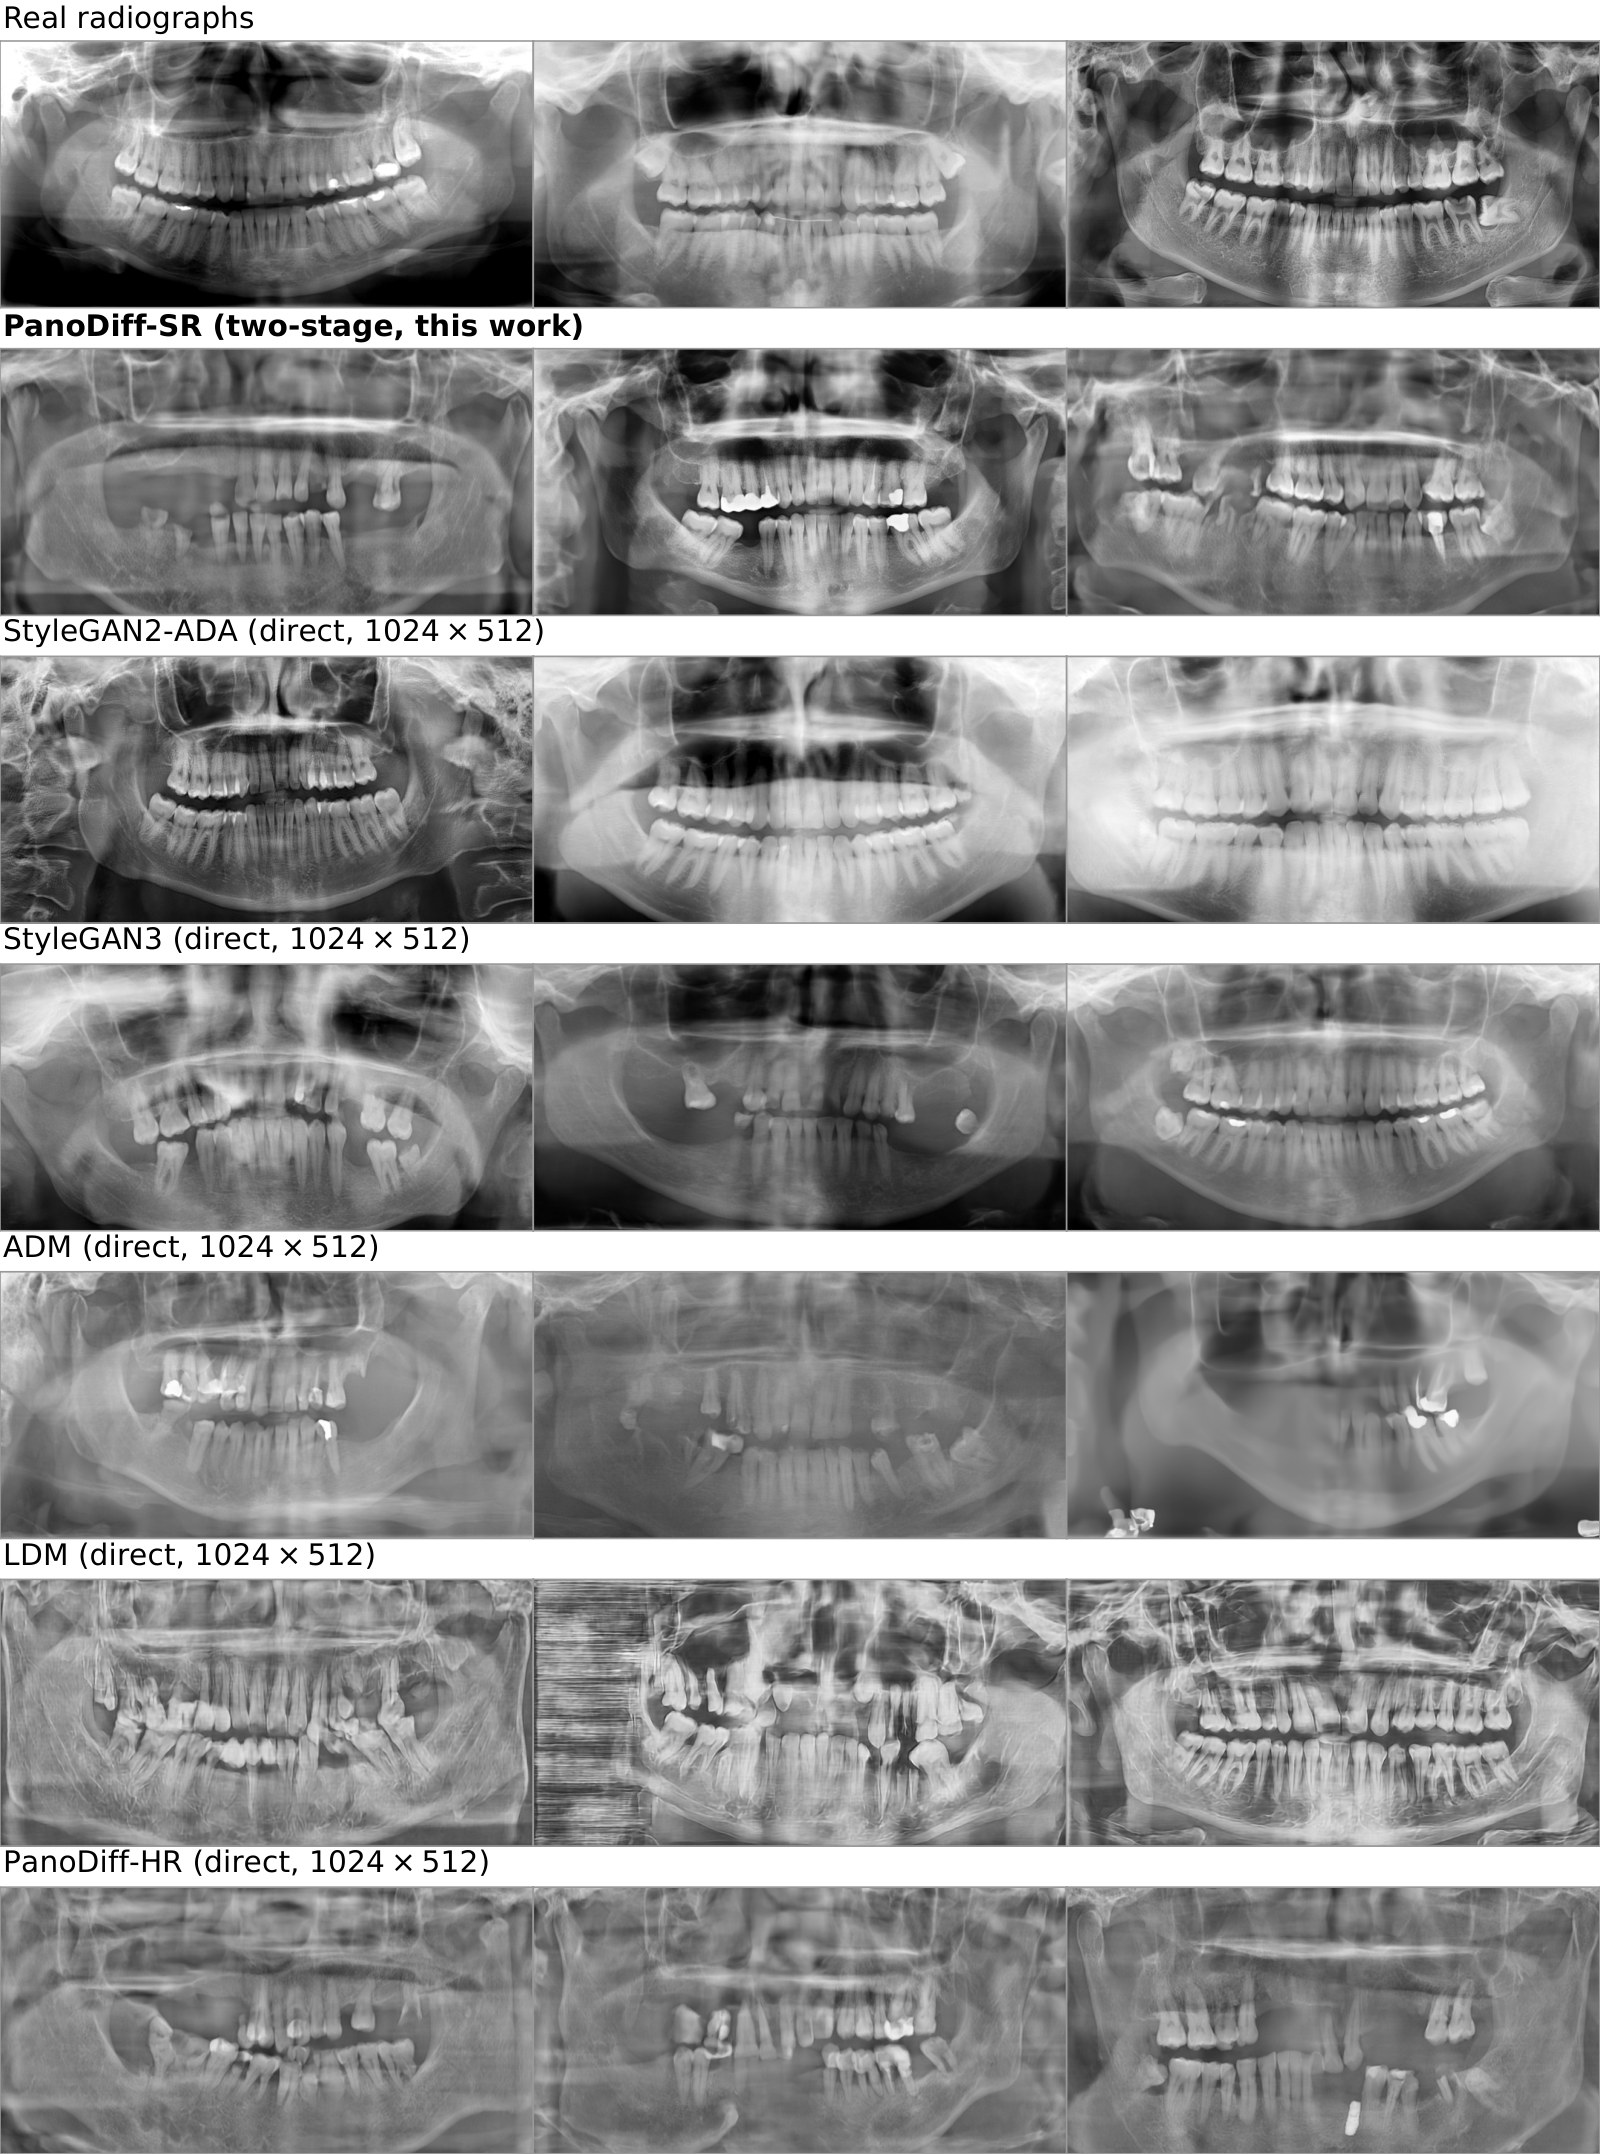
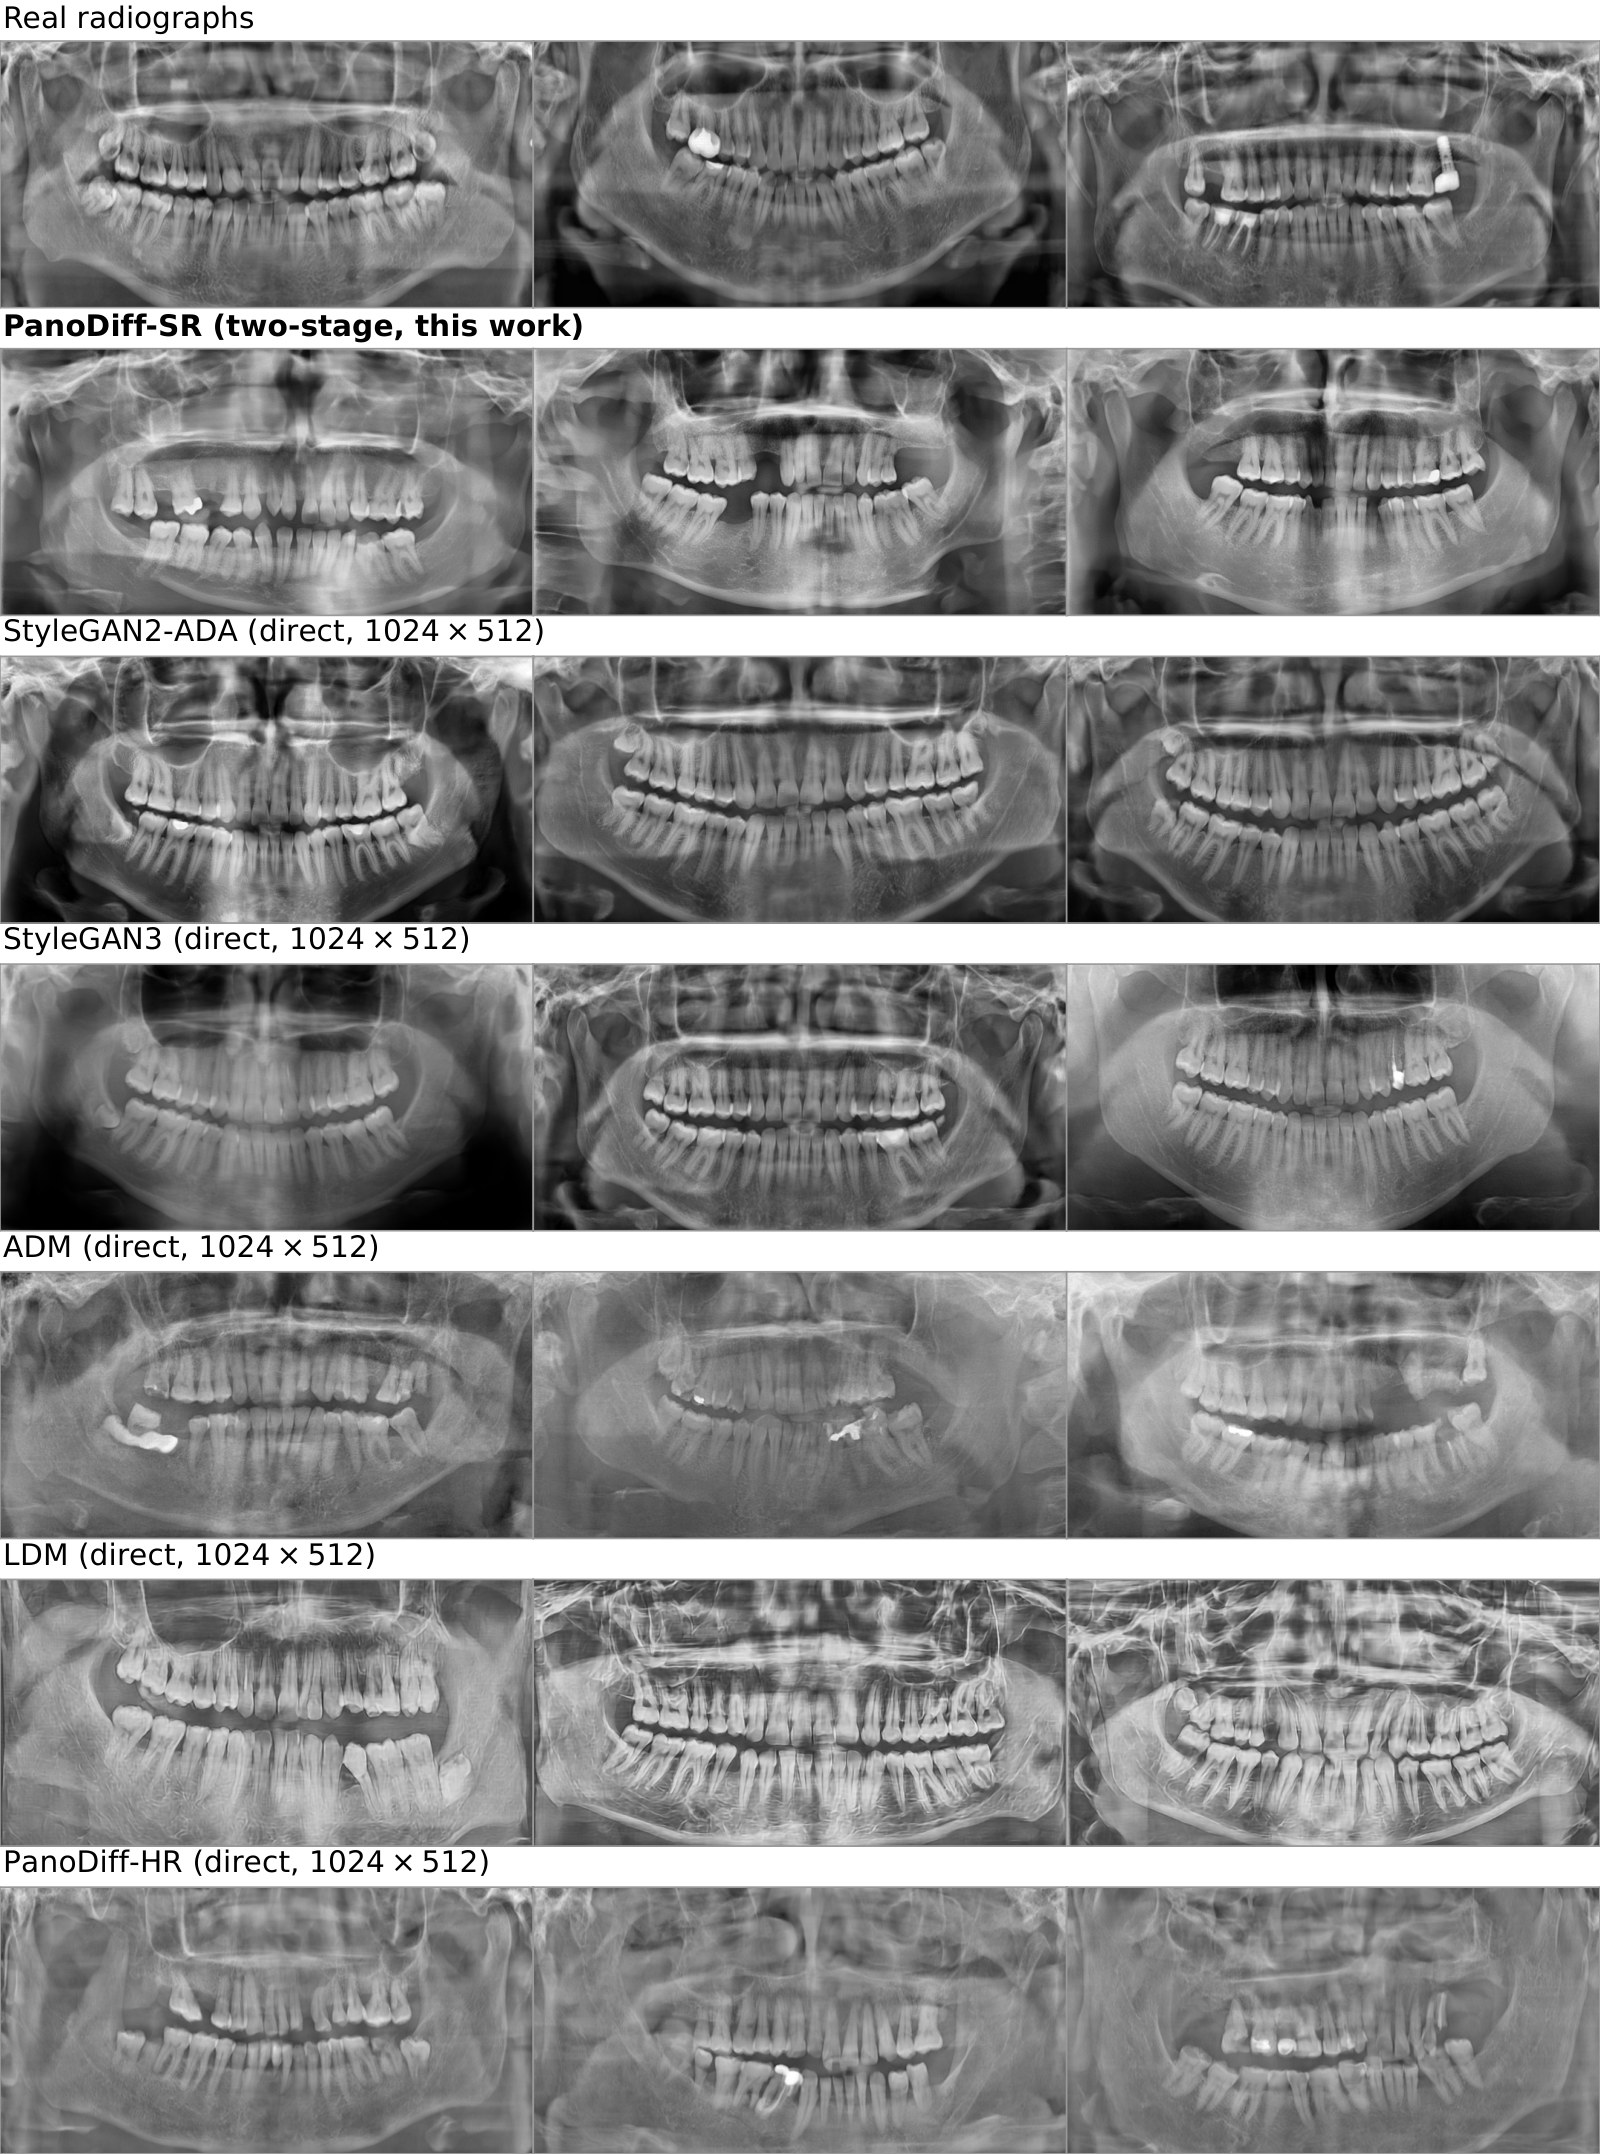
figure updated

diff --git a/panodiff/index.html b/panodiff/index.html
@@ -1434,12 +1434,13 @@ img.crop((127, 64, w - 127, h - 90)).resize((1024, 512), LANCZOS)</pre>
       </div>
 
       <figure class="fig">
-        <img loading="lazy" decoding="async" src="assets/img/directhr.jpg" alt="Three randomly drawn examples of real radiographs, of the two-stage pipeline and of five direct high-resolution baselines">
-        <figcaption><b>One row per model.</b> Randomly drawn examples of real radiographs, the two-stage pipeline
-          (PanoDiff-SR) and the direct high-resolution models except FastGAN-HR. The examples were not selected by
-          hand: every row shows the first three images of the random sample of 1500 images behind the table above.
-          The block of horizontal streaks at the left border of one LDM image is present in fewer than 1% of the
-          real radiographs but in about half of the LDM samples. The samples of PanoDiff-HR, the variant of PanoDiff widened to operate at full resolution,
+        <img loading="lazy" decoding="async" src="assets/img/directhr.jpg" alt="Three hand-picked examples of real radiographs, of the two-stage pipeline and of five direct high-resolution baselines">
+        <figcaption><b>One row per model.</b> Examples of real radiographs, the two-stage pipeline
+          (PanoDiff-SR) and the direct high-resolution models except FastGAN-HR. The three examples of each row were
+          chosen by hand and are not a random sample. None shows extensive crown or bridge work, and none shows the
+          block of horizontal streaks at the image border that occurs in fewer than 1% of the real radiographs, in
+          about 3% of the PanoDiff-SR samples and in more than half of the LDM samples; the rows therefore show the
+          cleaner images of each set. The samples of PanoDiff-HR, the variant of PanoDiff widened to operate at full resolution,
           are visibly blurred and low in contrast.<span class="note"> Paper Figure 19.</span></figcaption>
       </figure>
 
